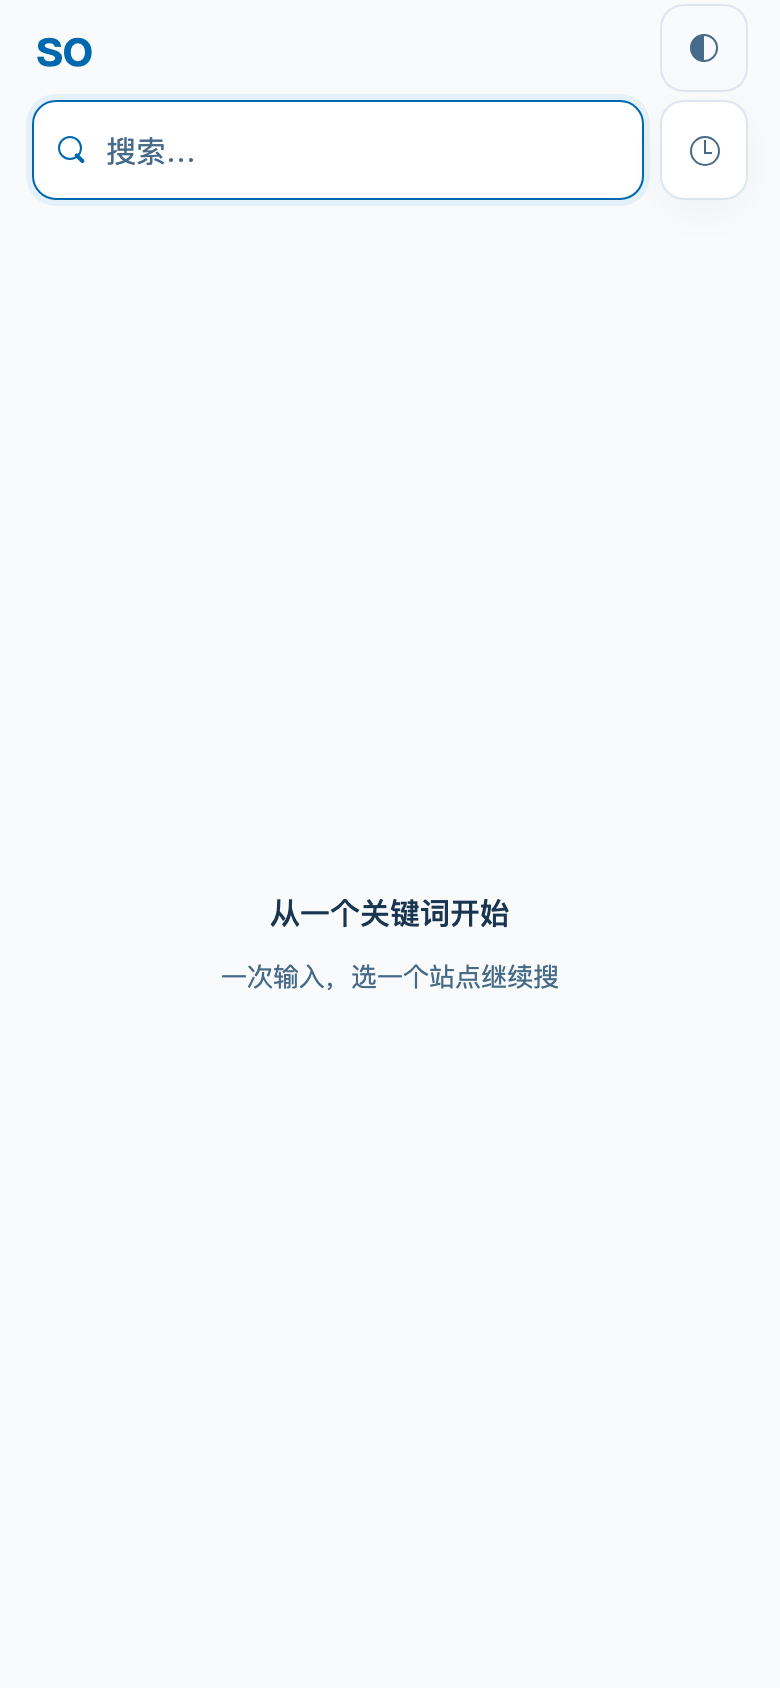
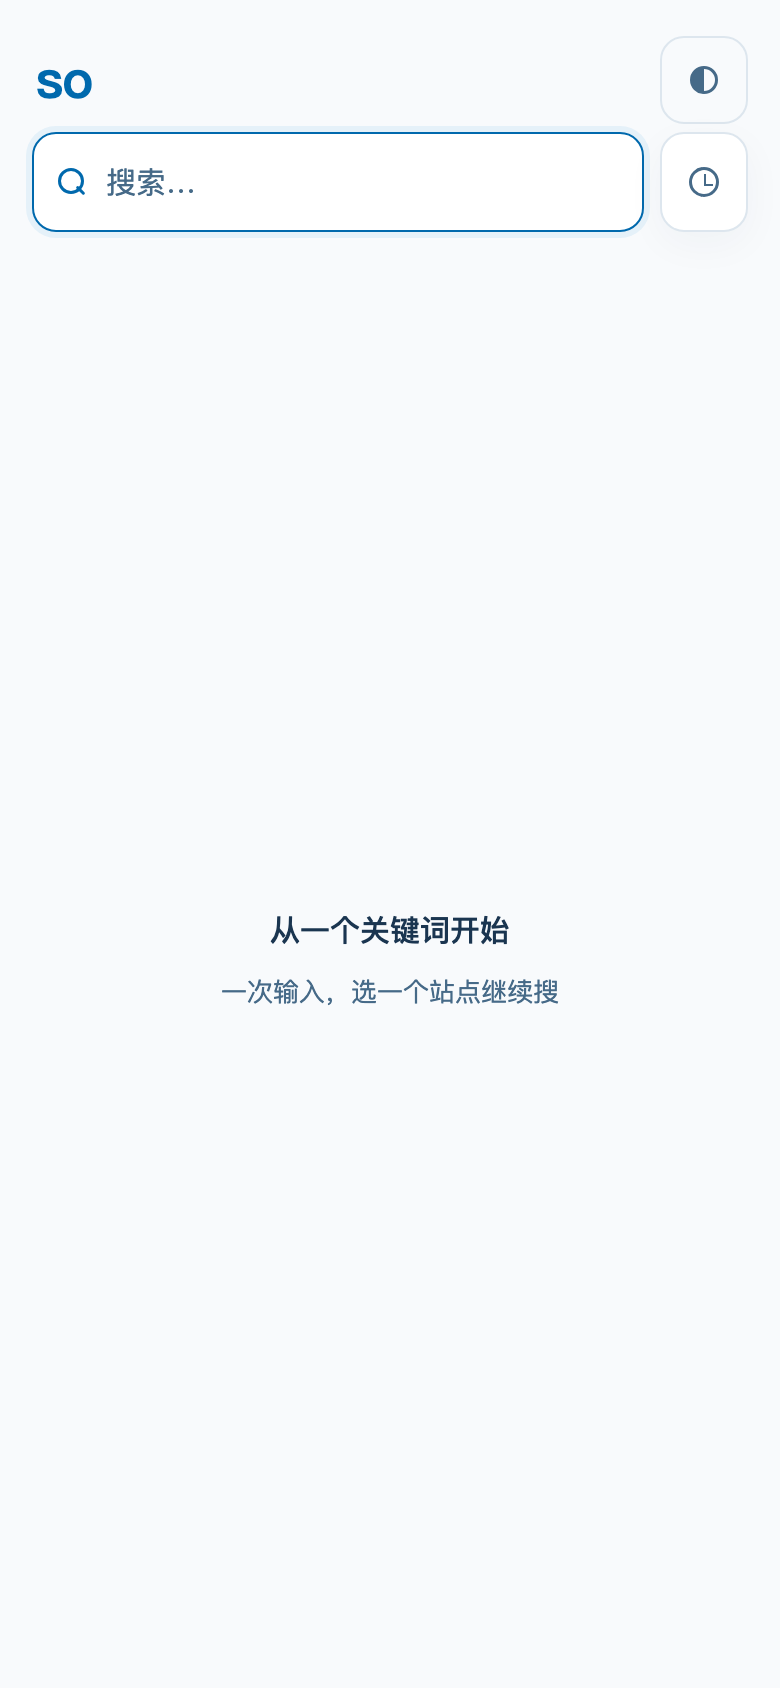
style: 页头补顶部留白，不再贴边
- 桌面 24px、≤700px 24px、≤480px 16px；主题按钮离顶 1px → 25px
- 浏览器回归断言同步为 24/16
- 设计稿 clean.html、README 与预览图同步

Changed region(s): [[0.0308, 0.0, 0.9231, 0.1232], [0.3077, 0.5237, 0.7077, 0.6161]]

diff --git a/designs/so/clean.html b/designs/so/clean.html
@@ -18,7 +18,7 @@ document.documentElement.dataset.theme = ['light', 'dark'].includes(savedTheme)
 :root[data-theme="dark"]{--accent:#78bef0;--accent-soft:#1b3449;--bg:#101923;--surface:#172330;--text:#e5edf5;--muted:#a1b6c9;--line:#2a3c4e;--hover:#203449;color-scheme:dark}
 *{box-sizing:border-box}body{margin:0;background:var(--bg);color:var(--text);font-size:14px;line-height:1.65;font-family:-apple-system,"SF Pro Text","PingFang SC","Noto Sans SC",sans-serif}
 button,input,a{-webkit-tap-highlight-color:transparent}button,input{font:inherit}button,a{touch-action:manipulation}button{cursor:pointer;color:inherit}a{color:inherit;text-decoration:none}[hidden]{display:none!important}button:focus-visible,a:focus-visible{outline:2px solid var(--accent);outline-offset:2px}
-.shell{max-width:1120px;margin:auto;padding:0 48px;min-height:100svh;display:flex;flex-direction:column}
+.shell{max-width:1120px;margin:auto;padding:24px 48px 0;min-height:100svh;display:flex;flex-direction:column}
 .topbar{width:100%;max-width:880px;margin:0 auto;padding:0 0 0 6px;display:flex;justify-content:space-between;align-items:center;min-height:48px}
 .wordmark{font-size:26px;letter-spacing:-.5px;font-weight:650;color:var(--accent);line-height:1}
 .theme-toggle{display:flex;align-items:center;justify-content:center;width:var(--control-size);height:var(--control-size);padding:0;background:transparent;border:1px solid var(--line);border-radius:var(--radius);font-size:14px;line-height:1;color:var(--muted);transition:background-color .2s,color .2s}.theme-symbol{width:1em;height:1em;border:1.5px solid currentColor;border-radius:50%;background:linear-gradient(90deg,currentColor 50%,transparent 50%)}.theme-toggle:hover{background:var(--hover);color:var(--text)}
@@ -55,8 +55,8 @@ input{min-width:0;flex:1;background:transparent;border:0;outline:0;color:var(--t
 .history-delete{display:flex;align-items:center;justify-content:center;border:0;background:transparent;width:44px;height:44px;border-radius:6px;color:var(--muted)}.history-delete:hover{color:var(--text)}
 .history-delete .close-symbol{width:12px;height:12px;flex:0 0 12px}.history-delete .close-symbol:before,.history-delete .close-symbol:after{top:5px;width:12px}
 .history-empty{padding:16px 6px;color:var(--muted);font-size:12px;text-align:center}
-@media(max-width:700px){.shell{padding:0 24px}main{padding:2px 0 40px}.engine-grid{grid-template-columns:repeat(3,minmax(0,1fr))}}
-@media(max-width:480px){:root{--control-size:44px}.shell{padding:0 16px}.topbar{padding:0 0 0 2px}.engine-grid{grid-template-columns:repeat(2,minmax(0,1fr))}.searchbox{padding:6px 6px 6px 12px;gap:6px}input{font-size:15px}}
+@media(max-width:700px){.shell{padding:24px 24px 0}main{padding:2px 0 40px}.engine-grid{grid-template-columns:repeat(3,minmax(0,1fr))}}
+@media(max-width:480px){:root{--control-size:44px}.shell{padding:16px 16px 0}.topbar{padding:0 0 0 2px}.engine-grid{grid-template-columns:repeat(2,minmax(0,1fr))}.searchbox{padding:6px 6px 6px 12px;gap:6px}input{font-size:15px}}
 @media(prefers-reduced-motion:reduce){*{transition:none!important}}
 </style>
 </head>

diff --git a/src/ui.test.js b/src/ui.test.js
@@ -307,7 +307,7 @@ async function main() {
       assert(state.hintText.includes('从一个关键词开始'), '提示标题应存在');
       assert(state.hintText.includes('一次输入，选一个站点继续搜'), '提示应说明选站点的入口流程');
       assert(!state.hasRecent, '不应再渲染最近搜索');
-      assert(state.topbarTop <= 1, `页头应贴顶，实际 ${state.topbarTop}`);
+      assert(state.topbarTop === 24, `页头应有 24px 顶部留白，实际 ${state.topbarTop}`);
       assert(state.searchTop < 120, `搜索框应靠上，实际 ${state.searchTop}`);
       assert(state.hintCenter > 900 * 0.45 && state.hintCenter < 900 * 0.7, `提示应落在空白区中部，实际 ${state.hintCenter}`);
       assert(!state.overflow, '1440 不应横向溢出');
@@ -398,9 +398,11 @@ async function main() {
       const state = await evaluate(cdp, `(() => {
         const hint = document.querySelector('.empty-hint');
         const sub = document.querySelector('.empty-hint-sub');
+        const topbar = document.querySelector('.topbar').getBoundingClientRect();
         const hintBox = hint.getBoundingClientRect();
         const subBox = sub.getBoundingClientRect();
         return {
+          topbarTop: Math.round(topbar.top),
           hintDisplay: getComputedStyle(hint).display,
           hintText: hint.innerText.replace(/\\s+/g, ' ').trim(),
           hintCenter: Math.round(hintBox.top + hintBox.height / 2),
@@ -409,6 +411,7 @@ async function main() {
           overflow: document.documentElement.scrollWidth > innerWidth,
         };
       })()`);
+      assert(state.topbarTop === 16, `390 页头应有 16px 顶部留白，实际 ${state.topbarTop}`);
       assert(state.hintDisplay === 'flex', '窄屏空态提示应显示');
       assert(state.hintText.includes('一次输入，选一个站点继续搜'), '窄屏提示文案应存在');
       assert(state.subRight <= state.width, `提示不应超出视口，实际 ${state.subRight}/${state.width}`);

diff --git a/src/styles.css b/src/styles.css
@@ -75,7 +75,7 @@ a:focus-visible {
   width: 100%;
   max-width: 976px;
   margin: 0 auto;
-  padding: 0 48px 56px;
+  padding: 24px 48px 56px;
   display: flex;
   flex-direction: column;
   min-height: 100vh;
@@ -576,7 +576,7 @@ input[type="text"]::placeholder {
 
 @media (max-width: 700px) {
   .container {
-    padding: 0 24px 40px;
+    padding: 24px 24px 40px;
   }
 
   .search-container {
@@ -594,7 +594,7 @@ input[type="text"]::placeholder {
   }
 
   .container {
-    padding: 0 16px 40px;
+    padding: 16px 16px 40px;
   }
 
   .topbar {

diff --git a/designs/so/README.md b/designs/so/README.md
@@ -2,7 +2,7 @@
 
 独立设计稿。当前稿为 `clean.html`；`index.html`、`compact.html`、`Feedback - so.html` 已移到 `archive/`，不再维护。保留蓝色主色，使用浅底、细边框和搜索引擎卡片；移除标语、快捷键说明和页脚提示，空态只留一句提示。
 
-2026-11-18：空态改为顶部对齐，去掉最近搜索，在搜索框下方的空白区中部显示一句提示（“一次输入，选一个站点继续搜”，按入口聚合站定位）；历史面板加高到 480px，超过约 10 条后内部滚动；入口按综合／社区／影音／动漫分组；当前搜索默认隐藏、编辑时出现；历史面板加“清空”，删除键改为 44px；主题按钮统一为 46px 描边、与历史入口同宽；深色下入口图标加 20px 淡底片；搜索框补 `min-width:0`，320px 不再横向溢出。`clean.html` 与 `src/` 已同步；其余三份原型已归档。
+2026-11-18：空态改为顶部对齐，去掉最近搜索，在搜索框下方的空白区中部显示一句提示（“一次输入，选一个站点继续搜”，按入口聚合站定位）；历史面板加高到 480px，超过约 10 条后内部滚动；入口按综合／社区／影音／动漫分组；当前搜索默认隐藏、编辑时出现；历史面板加“清空”，删除键改为 44px；主题按钮统一为 46px 描边、与历史入口同宽；深色下入口图标加 20px 淡底片；搜索框补 `min-width:0`，320px 不再横向溢出；顶部补 24px 留白（≤480px 16px），空态仍顶部对齐。`clean.html` 与 `src/` 已同步；其余三份原型已归档。
 
 设计依据：`src/template.html`、`src/styles.css`、`src/client.js`、`src/config.js`。输入校验代码来自 `src/utils/security.js`，引擎清单取自当前配置。使用本机字体，网站图标按原配置下载至 assets/，保持原色，无滤镜和远程资源依赖。原型为静态快照，之后调整正式配置时不会自动同步。
 
